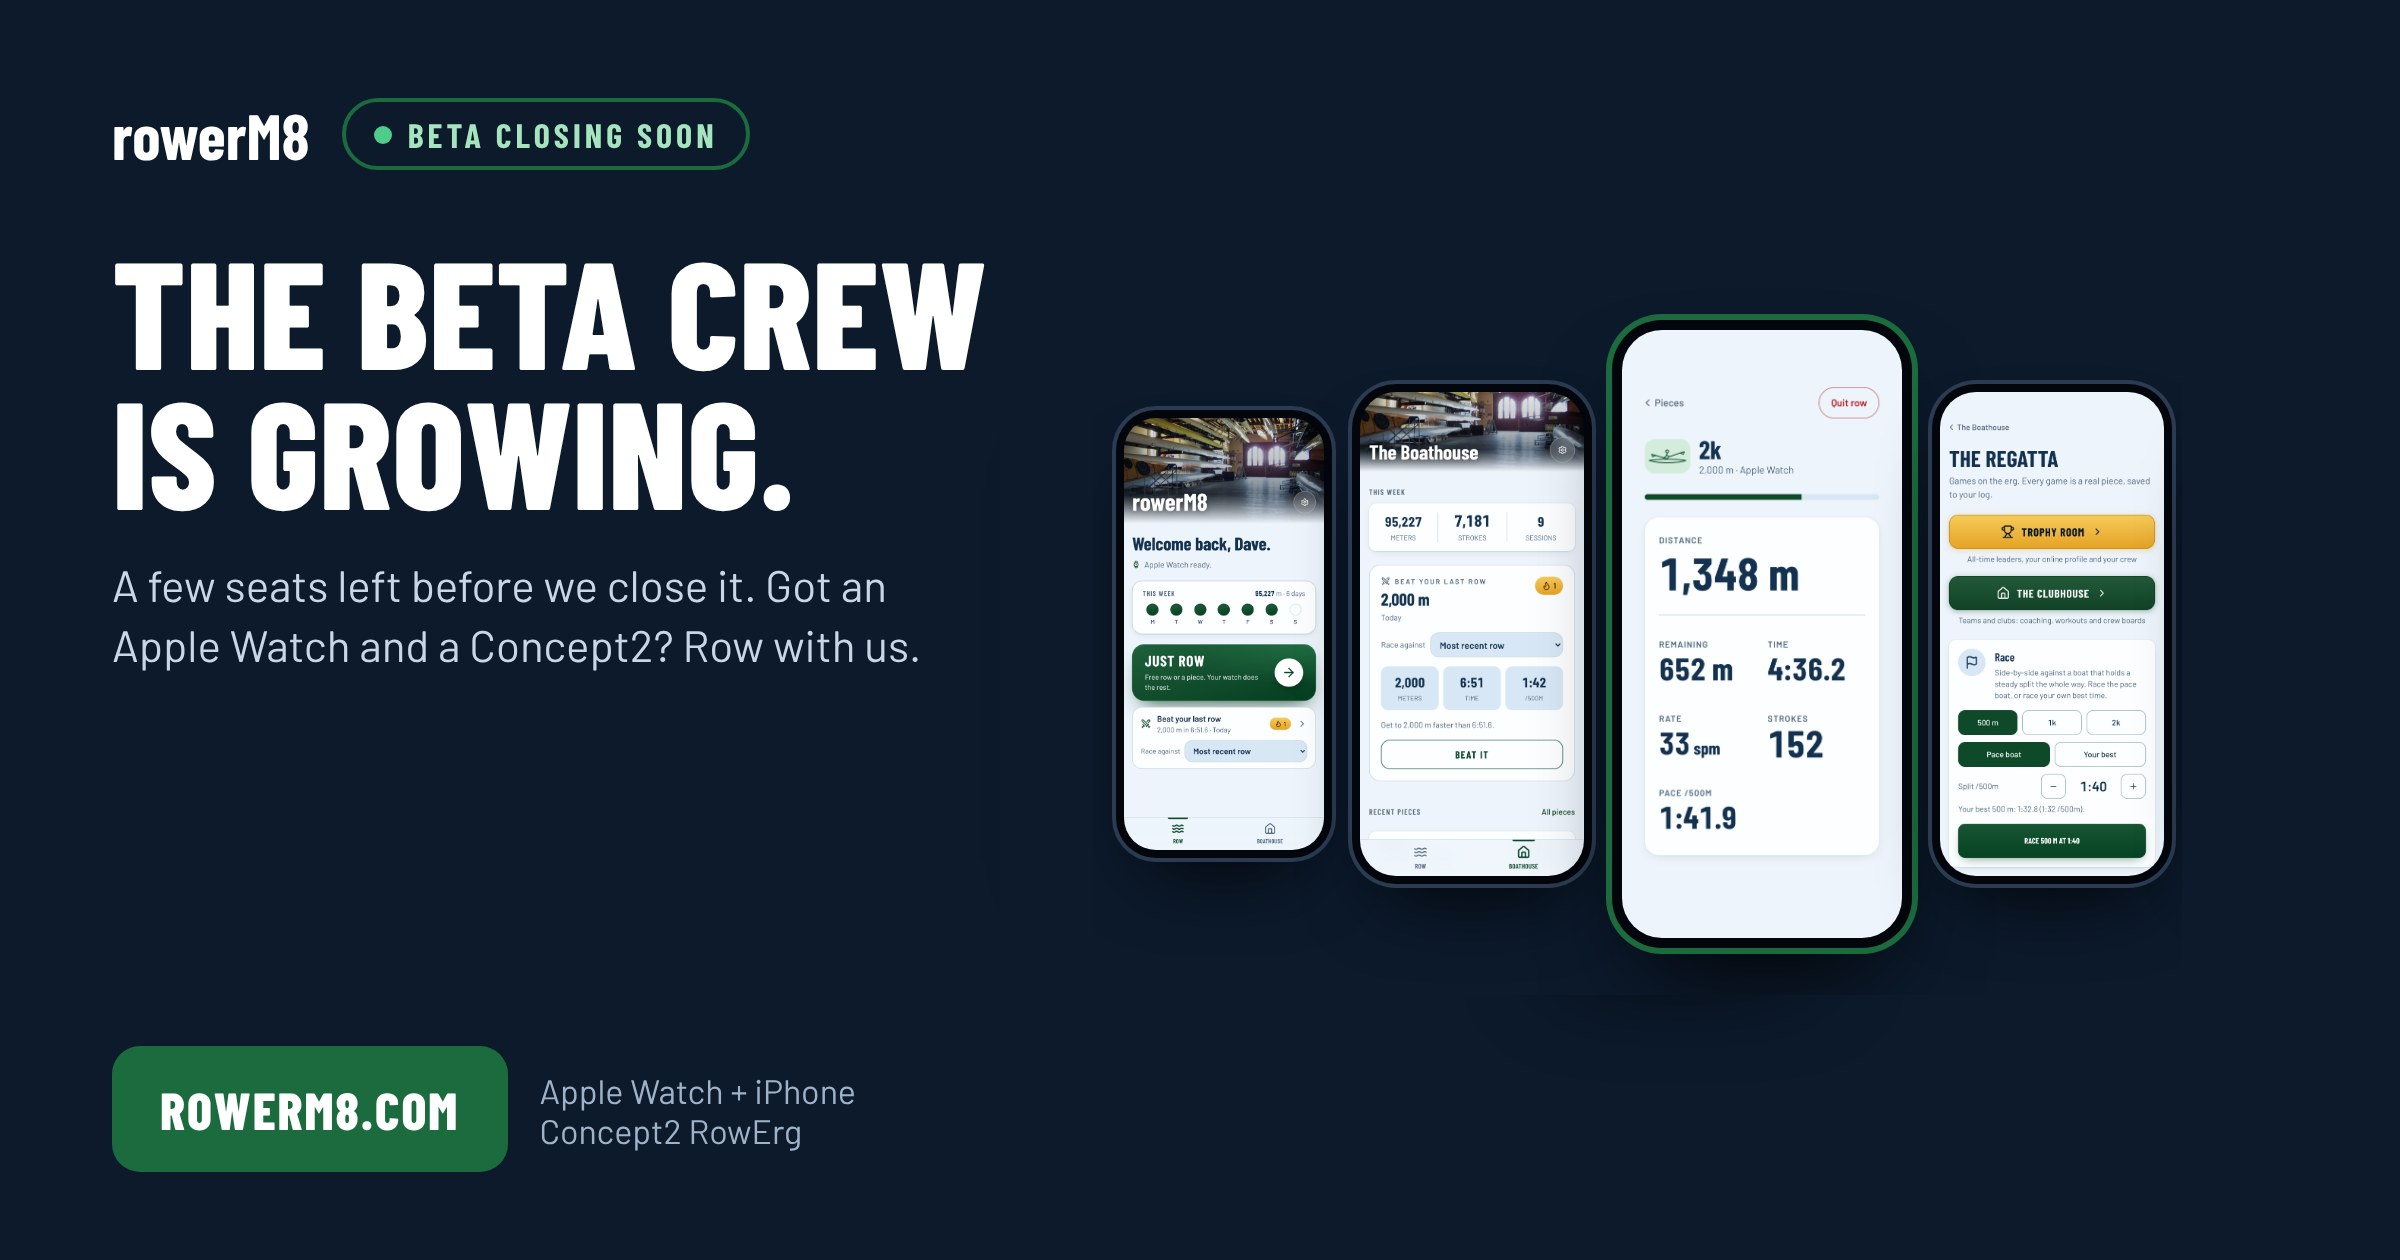
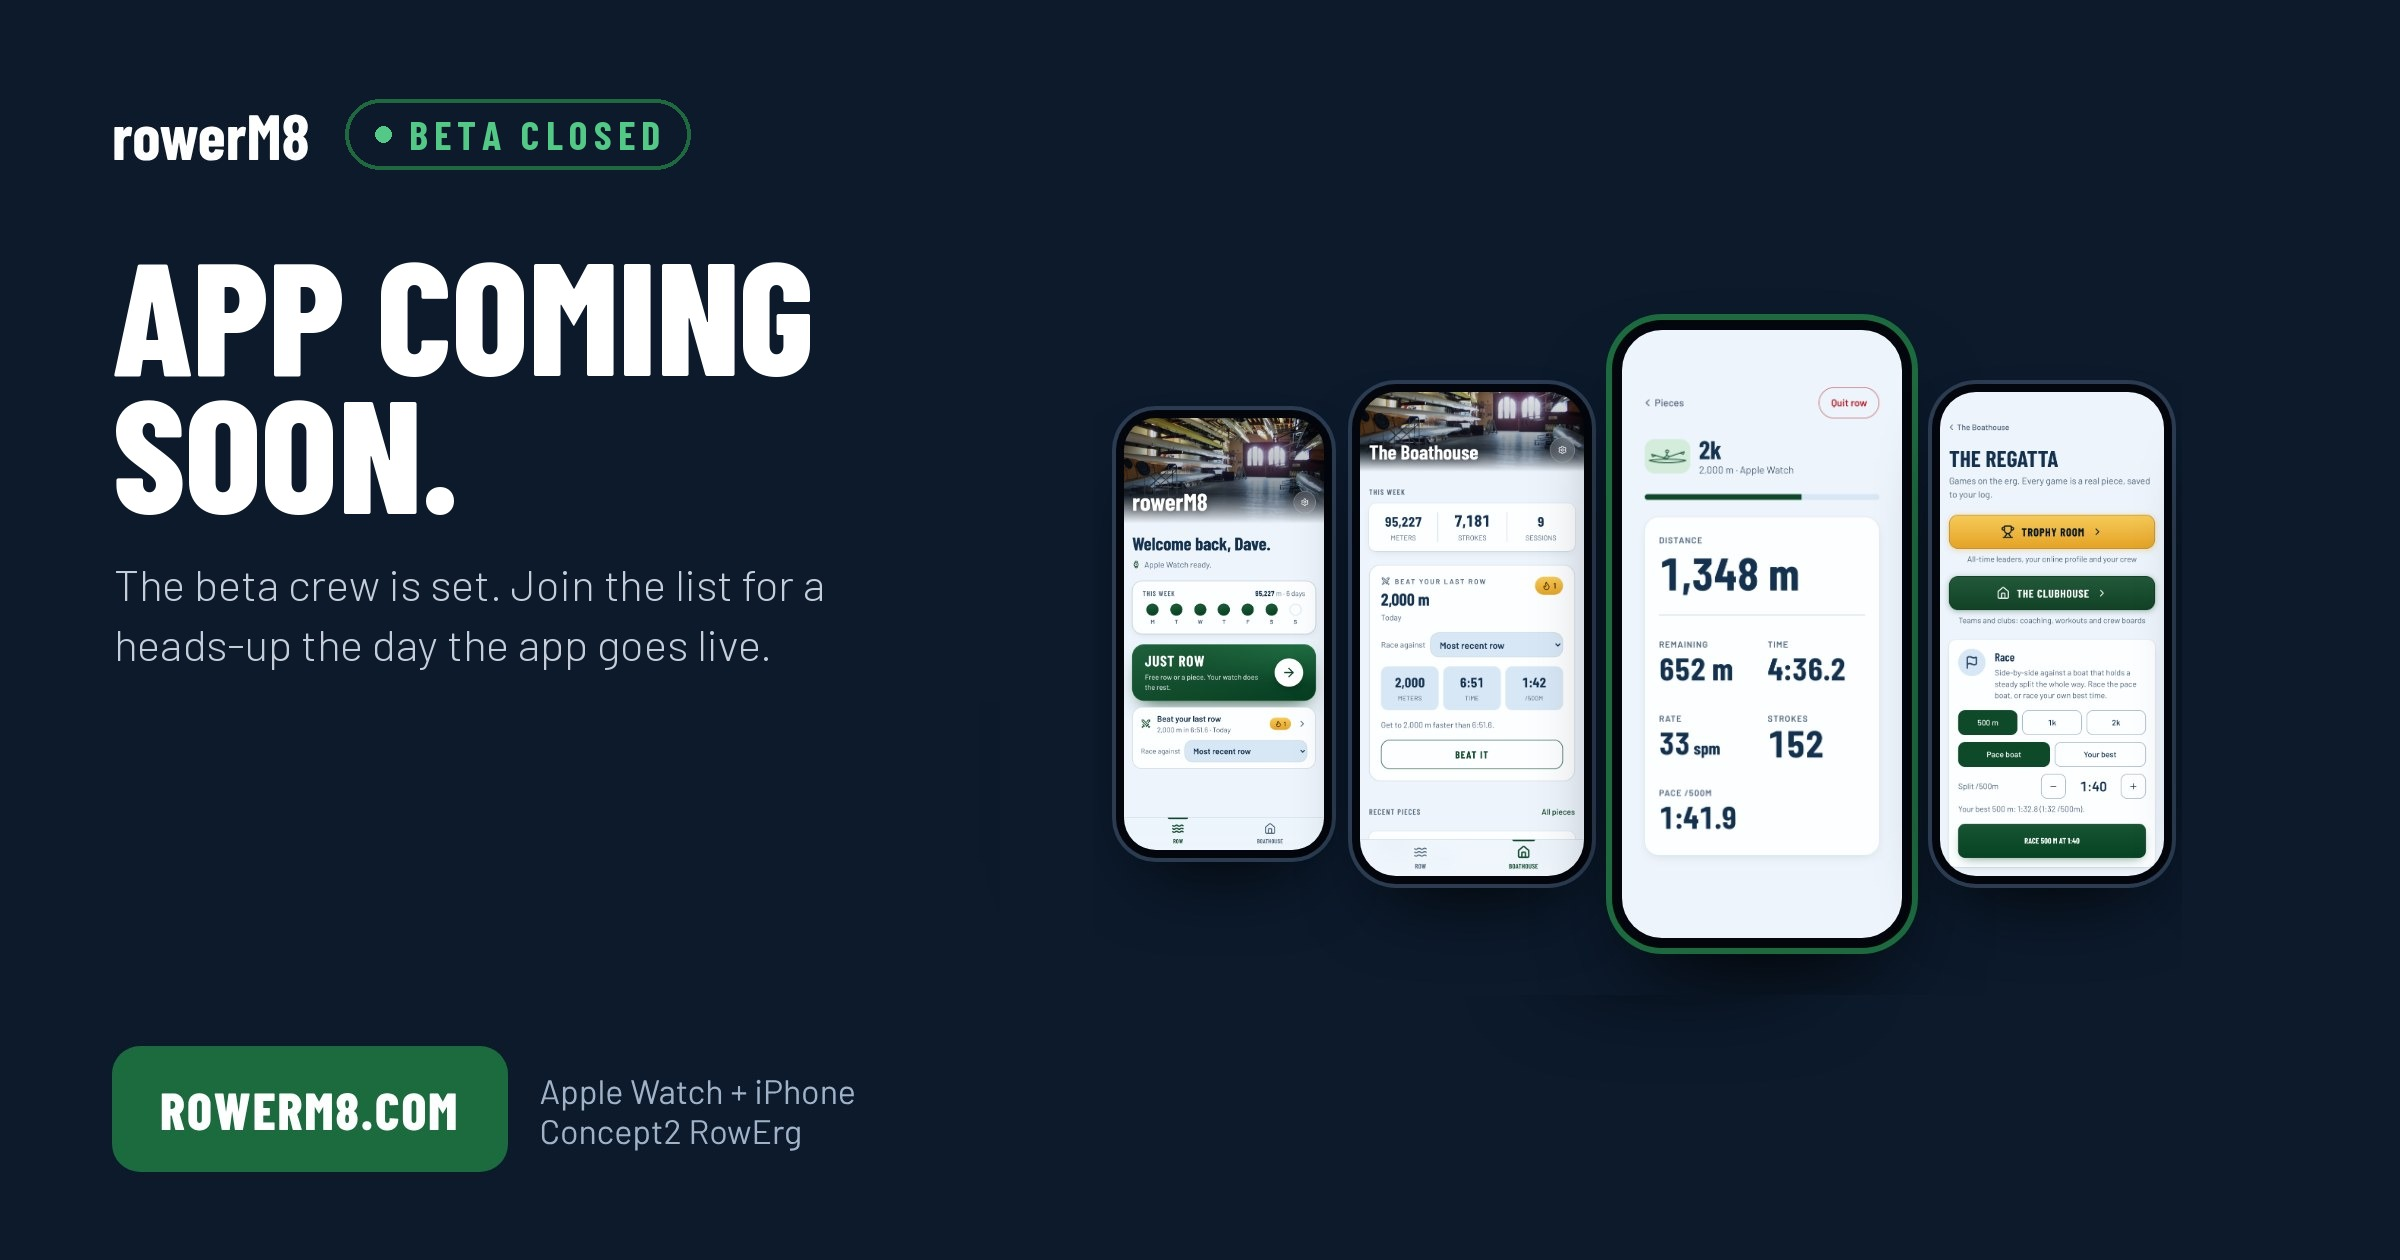
rowerM8 section: beta closed, app coming soon
Claude-Session: https://claude.ai/code/session_01JteuxTvMuFr1Y2M5WN7FcR

Changed region(s): [[0.0312, 0.1857, 0.4062, 0.5262], [0.1562, 0.0619, 0.3125, 0.1548]]

diff --git a/index.html b/index.html
@@ -25,14 +25,14 @@ a{color:#111}a:hover{color:#B3261E}
 </nav></header>
 
 <section id="rowerm8" class="ad rm8" aria-label="rowerM8" style="background:#0C1A2C;color:#fff">
-<a class="rm8-banner" href="https://rowerm8.com" target="_blank" rel="noopener"><img src="rowerm8-banner.jpg" width="2400" height="1260" alt="rowerM8, beta closing soon. The beta crew is growing. A few seats left before we close it. Got an Apple Watch and a Concept2? Row with us. rowerm8.com. Apple Watch and iPhone, Concept2 RowErg."></a>
+<a class="rm8-banner" href="https://rowerm8.com" target="_blank" rel="noopener"><img src="rowerm8-banner.jpg?v=2" width="2400" height="1260" alt="rowerM8, beta closed. App coming soon. The beta crew is set. Join the list for a heads-up the day the app goes live. rowerm8.com. Apple Watch and iPhone, Concept2 RowErg."></a>
 <div class="c rm8-text" style="display:flex;flex-wrap:wrap;gap:48px 56px;align-items:center">
 <div style="flex:999 1 440px;min-width:0">
-<p class="bc" style="margin:0 0 18px;font-weight:700;font-size:20px;letter-spacing:.08em;color:#6FCB95;text-transform:none">rowerM8 &middot; BETA CLOSING SOON</p>
+<p class="bc" style="margin:0 0 18px;font-weight:700;font-size:20px;letter-spacing:.08em;color:#6FCB95;text-transform:none">rowerM8 &middot; BETA CLOSED &middot; APP COMING SOON</p>
 <h2 class="bc" style="margin:0;font-weight:800;font-size:clamp(52px,6.4vw,96px);line-height:.88">Row with your Apple Watch.</h2>
 <p style="margin:24px 0 0;font-size:22px;line-height:1.45;color:#D3DAE4;max-width:560px">Your watch counts every stroke and the app turns it into real meters, pace and splits. Race your last row, race a pace boat, track your weeks.</p>
-<p style="margin:18px 0 0;font-size:22px;line-height:1.45;max-width:560px">If you have an Apple Watch and a Concept2, I've got a few beta spots left.</p>
-<a class="bc" href="https://rowerm8.com" target="_blank" rel="noopener" style="display:inline-flex;align-items:center;min-height:58px;margin-top:30px;padding:0 30px;background:#1B6B3F;font-weight:700;font-size:26px;letter-spacing:.04em;text-decoration:none">Get in at rowerm8.com</a>
+<p style="margin:18px 0 0;font-size:22px;line-height:1.45;max-width:560px">The beta crew is set. Join the list for a heads-up the day the app goes live.</p>
+<a class="bc" href="https://rowerm8.com" target="_blank" rel="noopener" style="display:inline-flex;align-items:center;min-height:58px;margin-top:30px;padding:0 30px;background:#1B6B3F;font-weight:700;font-size:26px;letter-spacing:.04em;text-decoration:none">Join the list at rowerm8.com</a>
 </div>
 <div style="flex:1 1 460px;min-width:0">
 <img src="rowerm8-app.jpg" alt="rowerM8 app screens: Row home, The Boathouse, a live 2k piece and The Regatta" style="width:100%;height:auto;display:block">
